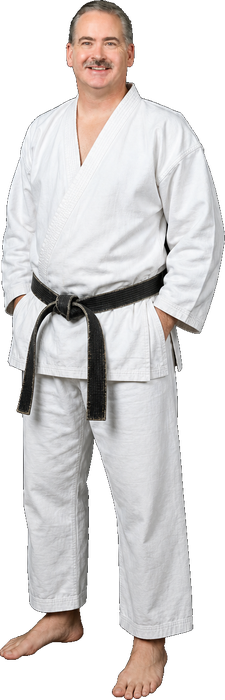
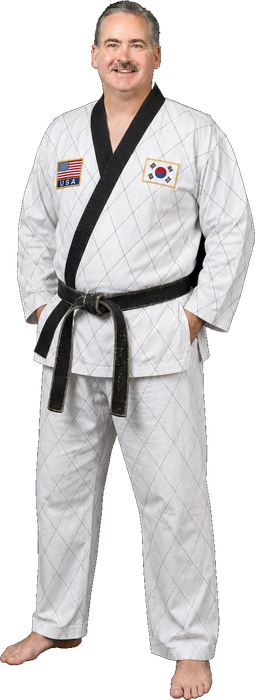
Sensei: swap karate gi for Brett's actual hapkido dobok (diamond cross-stitch, black lapel, Korea/USA patches) — new full-body source + updated cut/aspect ratio

diff --git a/select.html b/select.html
@@ -294,7 +294,7 @@ const SUITES = [
     engage: 'Martial arts training, self-defense workshops, and anti-bully programs for schools, families, and teams. This is the room people don\'t expect — and the one that explains all the others.' },
 ];
 
-const FIG_AR = { speaker: 228 / 700, coach: 209 / 700, ai: 222 / 700, trainer: 219 / 700, author: 219 / 700, sensei: 225 / 700 };
+const FIG_AR = { speaker: 228 / 700, coach: 209 / 700, ai: 222 / 700, trainer: 219 / 700, author: 219 / 700, sensei: 255 / 700 };
 let sel = 0, locked = false, swapTimer = null;
 
 /* build roster cards */